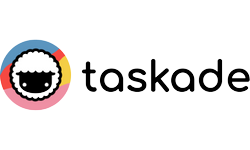
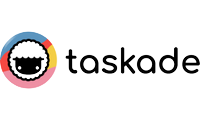
added registration link

diff --git a/pages/index.js b/pages/index.js
@@ -3,6 +3,7 @@ import TrackInfo from '../components/tracks'
 import ChallengeInfo from '../components/challenges'
 import FaqDropdown from '../components/faq'
 import AboutItem from '../components/about'
+import Sponsor from '../components/sponsors'
 
 import {useState, useEffect} from 'react'
 import Image from 'next/image'
@@ -94,7 +95,7 @@ export default function Home() {
           {/*text div*/}
           <div className='mt-16 sm:mt-10 md:mt-0 space-y-12'> 
             <div>
-              <h1 className='font-bold text-center text-white text-6xl sm:text-7xl md:text-8xl lg:text-[120px] pt-32'>hackTAMS</h1>
+              <h1 className='font-bold text-center text-white text-6xl sm:text-7xl md:text-8xl lg:text-[120px] md:pt-32'>hackTAMS</h1>
               <h1 className='font-bold text-center text-white text-6xl sm:text-7xl md:text-8xl lg:text-[120px]'>2023</h1>
             </div>
             <div className='space-y-2'>
@@ -102,12 +103,8 @@ export default function Home() {
               <h2 className='text-3xl text-center text-c3 md:text-[40px] font-black'>@Willis Library (UNT)</h2>
             </div>
           </div>
-          {/*button div
-          <div className='flex justify-center'>
-            <a href='https://forms.gle/W6cdWQk2nqrQfZzN8' target='_blank' rel='noreferrer' className='min-w-fit py-10 px-4 bg-c3 text-2xl mt-10 text-white rounded-2xl hover:bg-c5 lg:p-12'>registration portal</a>
-          </div>*/}
           {/*duck image*/}
-          <div className='w-full h-full relative mt-20 lg:mt-8 lg:mb-[6rem] lg:ml-[25rem]'>
+          <div className='w-full h-full relative mt-16 lg:mt-8 lg:mb-[6rem] lg:ml-[25rem]'>
             <Image src={introDuck} alt='duck on home screen'/>
           </div>
         </div>
@@ -207,10 +204,10 @@ export default function Home() {
           <div className='grid justify-center lg:pt-4'>
             <h2 className='text-c2 font-bold text-6xl text-center pt-8 pb-4'>partners</h2>
             <div className='flex flex-wrap justify-between items-center lg:flex-row'>
-              <a href="https://hackplus.io" target='_blank' rel='noreferrer' className='hover:scale-105 m-auto w-[21rem] p-4'>
+              <a href="https://hackplus.io" target='_blank' rel='noreferrer' className='hover:scale-105 m-auto w-[21rem] p-6'>
                 <Image src={hackplus} alt="hackplus logo in partners section"/>
               </a>
-              <a href="https://mlh.io" target="_blank" rel='noreferrer' className='hover:scale-105 m-auto w-72 p-4'>
+              <a href="https://mlh.io" target="_blank" rel='noreferrer' className='hover:scale-105 m-auto w-72 p-6'>
                 <Image src={mlh} alt="mlh logo in partners section"/>
               </a>
             </div>
@@ -219,21 +216,11 @@ export default function Home() {
           <div className='grid justify-center pt-6'>
             <h2 className='text-c2 font-bold text-6xl text-center'>sponsors</h2>
             <div className='flex flex-wrap justify-evenly items-center lg:flex-row'>
-              <a href="https://www.taskade.com" target='_blank' rel='noreferrer' className='hover:scale-110 m-auto w-52 p-4'>
-                <Image src={taskade} alt="taskade logo in sponsors section"/>
-              </a>
-              <a href="https://scrimba.com" target="_blank" rel='noreferrer' className='hover:scale-110 m-auto w-52 p-4'>
-                <Image src={scrimba} alt="scrimba logo in sponsors section"/>
-              </a>
-              <a href="https://www.standoutstickers.com/?utm_campaign=events-league-organizers-spring2022&utm_medium=email&utm_source=customerio-zoho_creator_-_standout_sticker_intro" target="_blank" rel='noreferrer' className='hover:scale-110 m-auto w-52 p-4'>
-                <Image src={standoutStickers} alt="standout stickers logo in sponsors section"/>
-              </a>
-              <a href="https://www.wolframalpha.com" target="_blank" rel='noreferrer' className='hover:scale-110 m-auto w-52 p-4'>
-                <Image src={wolframAlpha} alt="wolfram alpha logo in sponsors section"/>
-              </a>
-              <a href="https://github.com" target="_blank" rel='noreferrer' className='hover:scale-110 m-auto w-52 p-4'>
-                <Image src={github} alt="github logo in sponsors section"/>
-              </a>
+              <Sponsor image={taskade} link='https://www.taskade.com'/>
+              <Sponsor image={scrimba} link='https://scrimba.com'/>
+              <Sponsor image={standoutStickers} link='https://www.standoutstickers.com/?utm_campaign=events-league-organizers-spring2022&utm_medium=email&utm_source=customerio-zoho_creator_-_standout_sticker_intro'/>
+              <Sponsor image={wolframAlpha} link='https://www.wolframalpha.com'/>
+              <Sponsor image={github} link='https://github.com'/>
             </div>
           </div>
         </div>
@@ -251,7 +238,7 @@ export default function Home() {
                   </div>
                   {/*logo*/}
                   <div className='hidden md:block -mt-4'>
-                    <a href='#home'><Image src={navDuckBtwn} alt='duck logo in footer'/></a>
+                    <a href='#home'><Image src={navDuckBtwn} alt='duck logo in footer' placeholder='blur'/></a>
                   </div>
                 </div>
                 {/*list container*/}
@@ -270,7 +257,7 @@ export default function Home() {
                     {/*register*/}
                     <div>
                       <h3 className='text-c9 font-bold'>register</h3> 
-                      <a href='https://forms.gle/W6cdWQk2nqrQfZzN8' target='_blank' rel='noreferrer' className='text-c4 hover:text-white'>pre-registration link</a>
+                      <a href='https://forms.gle/SnwXTWSjLX88wBf56' target='_blank' rel='noreferrer' className='text-c4 hover:text-white'>registration link</a>
                     </div>
                     {/*donate*/}
                     <div>
@@ -294,7 +281,7 @@ export default function Home() {
                     {/*discord*/}
                     <div>
                       <h3 className='text-c9 font-bold'>discord server</h3> 
-                      <a href="https://discord.gg/zxHRW34B" className='text-c4 hover:text-white' target='_blank' rel='noreferrer'>https://discord.gg/zxHRW34B</a>
+                      <a href="https://discord.gg/fVKDT6Ra5s" className='text-c4 hover:text-white' target='_blank' rel='noreferrer'>https://discord.gg/fVKDT6Ra5s</a>
                     </div>
                   </div>
                 </div>

diff --git a/components/navbar.js b/components/navbar.js
@@ -26,7 +26,7 @@ function NavBarPage(props) {
                     <a href="#challenges" className='hover:text-c5'>challenges</a>
                     <a href="#faq" className='hover:text-c5'>faq</a>
                     <a href="#sponsors" className='hover:text-c5'>sponsors</a>
-                    <a href='https://forms.gle/W6cdWQk2nqrQfZzN8' target='_blank' rel='noreferrer' className='hover:text-c5'>pre-register</a>
+                    <a href='https://forms.gle/SnwXTWSjLX88wBf56' target='_blank' rel='noreferrer' className='hover:text-c5'>register</a>
                 </div>
                 <div className="inline-block z-30 lg:hidden" onClick={toggleNav}>
                     <Hamburger toggled={isOpen} toggle={setOpen}/>
@@ -41,7 +41,7 @@ function NavBarPage(props) {
                     <a href="#challenges" className='hover:text-c18'>challenges</a>
                     <a href="#faq" className='hover:text-c18'>faq</a>
                     <a href="#sponsors" className='hover:text-c18'>sponsors</a>
-                    <a href='https://forms.gle/W6cdWQk2nqrQfZzN8' target='_blank' rel='noreferrer' className='hover:text-c18'>pre-register</a>
+                    <a href='https://forms.gle/SnwXTWSjLX88wBf56' target='_blank' rel='noreferrer' className='hover:text-c18'>register</a>
                 </div>
             </div>)}
 

diff --git a/components/sponsors.js b/components/sponsors.js
@@ -1,0 +1,27 @@
+import Image from "next/image";
+function Sponsor({image, link}) {
+    return (
+        <a href={link} target='_blank' rel='noreferrer' className='hover:scale-110 m-auto w-52 lg:p-4'>
+                <Image src={image} alt="logo in sponsors section"/>
+        </a>
+    )
+}
+
+export default Sponsor;
+
+/*import Image from "next/image";
+const Sponsor = ({ image, title, link }) => {
+  return (
+    <a href={link} target="_blank" rel="noreferrer">
+      <div
+        className={
+          "h-full bg-white py-8 px-4 rounded-md shadow-lg flex flex-col justify-evenly items-center"
+        }
+      >
+        <Image src={image} alt={title} placeholder="blur" />
+        <h3 className={"text-lg font-medium text-center"}>{title}</h3>
+      </div>
+    </a>
+  );
+};
+export default Sponsor;*/

diff --git a/components/tracks.js b/components/tracks.js
@@ -3,7 +3,7 @@ function TrackInfo(props) {
         <div className='flex flex-col items-center justify-evenly space-y-6 pt-10 w-full px-8 lg:pt-0'>
             <h3 className='text-white text-center font-bold text-4xl lg:text-6xl'>{props.trackName}</h3>
             <p className='text-white max-w-xl text-2xl lg:text-3xl text-center lg:text-justify'>{props.trackPar}</p>
-          </div>
+        </div>
     )
 }
 
